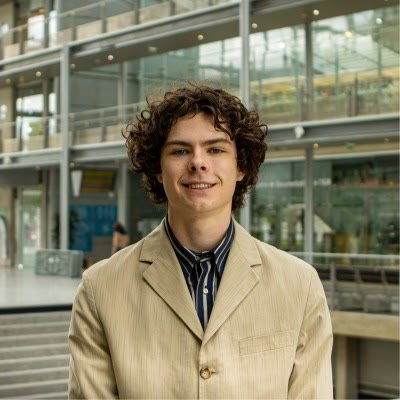
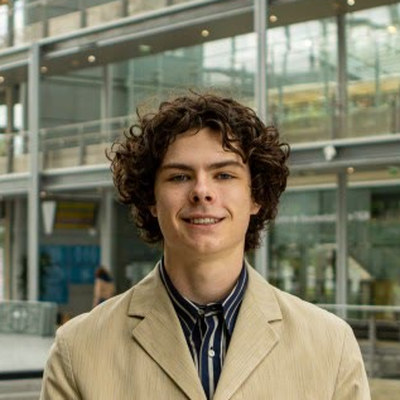
Portraits d'Erwann et Yann : recadrer sur le visage
Erwann vient de l'original du depot, sa reference etait un agrandissement
moins net. Yann vient de la source 865x821 fournie, 2,5 fois plus nette
que la zone correspondante du fichier en ligne.

diff --git a/index.html b/index.html
@@ -118,7 +118,7 @@
 
                                 <div class="team-member">
                                     <a href="https://www.linkedin.com/in/erwann-carn/" target="_blank">
-                                        <img src="./static/images/authors/erwann_carn.jpg?v=3" alt="Erwann Carn" loading="lazy">
+                                        <img src="./static/images/authors/erwann_carn.jpg?v=4" alt="Erwann Carn" loading="lazy">
                                         <div>Erwann<br>Carn<sup>*,1</sup></div>
                                     </a>
                                 </div>
@@ -146,7 +146,7 @@
 
                                 <div class="team-member">
                                     <a href="https://ymontmarin.github.io/" target="_blank">
-                                        <img src="./static/images/authors/yann_de_mont_marin.jpg?v=3" alt="Yann de Mont-Marin" loading="lazy">
+                                        <img src="./static/images/authors/yann_de_mont_marin.jpg?v=4" alt="Yann de Mont-Marin" loading="lazy">
                                         <div>Yann<br>de Mont-Marin<sup>1</sup></div>
                                     </a>
                                 </div>
